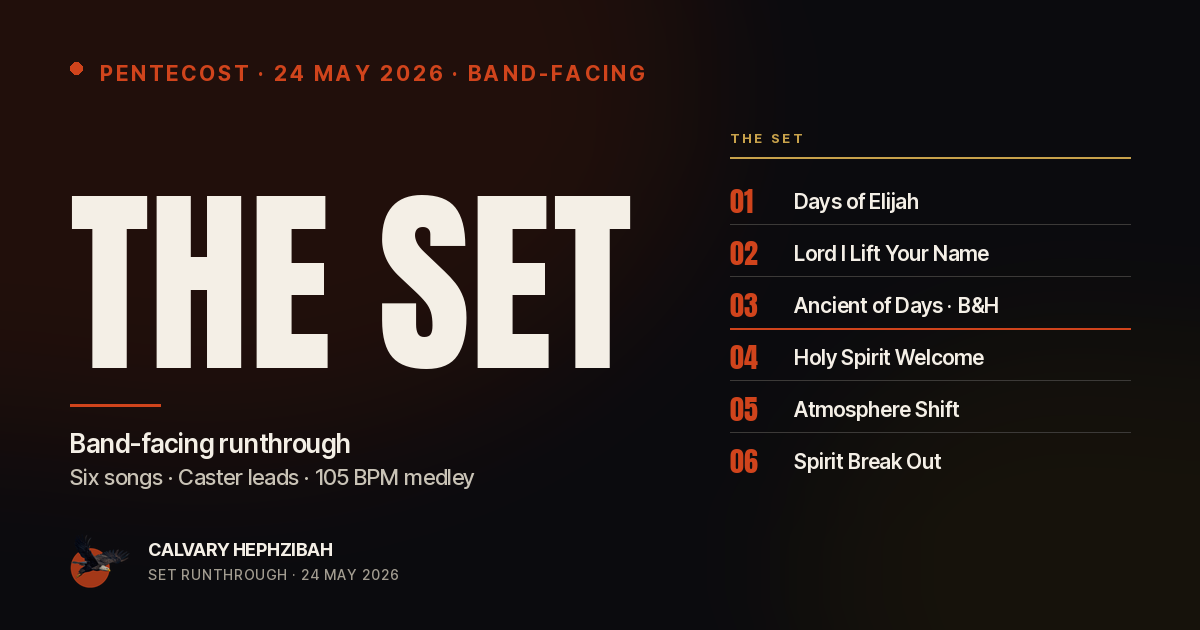
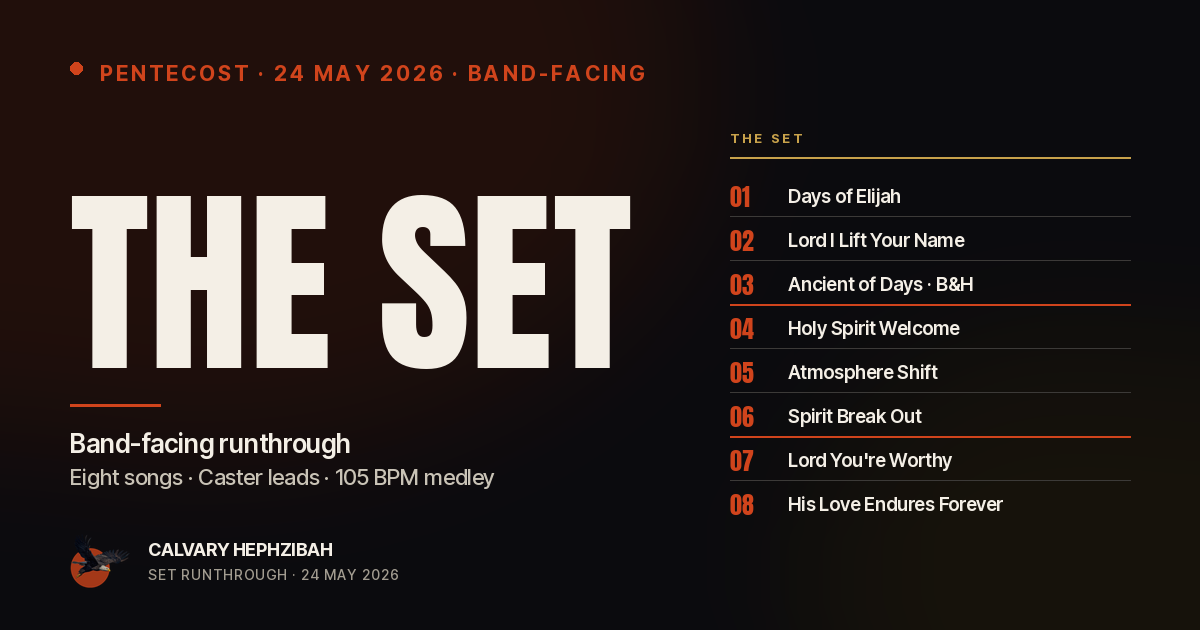
Set runthrough: add offering + end-of-service songs (7 & 8)
Two new song cards added at the foot of the song list. Both are
deliberately lighter than the worship set:
  - No reference track (yet)
  - No chord chart
  - No multi-stem player
  - Single lyrics block (one section)
  - Brief parts notes
  - Single Approach direction (not Shape + Principle stack)

  07 · OFFERING · Lord You're Worthy
     'This is the giving moment; the music holds the room, it doesn't
      lead it. Keep it simple, keep it short, keep it warm.'
     Tag: 'Single pass'

  08 · END OF SERVICE · His Love Endures Forever
     'One stanza, simple, reverent. End clean — let the room sit in it
      for a beat before the band stops. Caster calls the cut.'
     Tag: 'Benediction'

Updates to at-a-glance:
- glance-sub copy: 'Eight songs. Three praise locked at 105. Three
  worship that breathe. Two single-pass closers. Caster leads.'
- quick-order: 2 new dividers ('Offering · Single pass · light touch'
  and 'End of Service · Benediction · brief') + 2 new song rows

OG card regenerated for 8 songs:
- Tighter row height (52→44px)
- Two red structural dividers (after rows 3 and 6) — visually telegraphs
  the liturgical shape of the service at thumbnail scale
- Lede updated: 'Eight songs · Caster leads · 105 BPM medley'
- OG description meta updated to match

Changed region(s): [[0.5858, 0.3016, 0.925, 0.754], [0.0617, 0.7238, 0.4317, 0.7841], [0.5858, 0.7841, 0.8325, 0.8143]]

diff --git a/set-runthrough-24-may-2026/index.html b/set-runthrough-24-may-2026/index.html
@@ -8,7 +8,7 @@
 
   <meta property="og:type" content="website">
   <meta property="og:title" content="Set Runthrough · Pentecost · 24 May 2026">
-  <meta property="og:description" content="Per-musician notes for the band: drums, bass, keys, guitar, lead, BVs. Companion to the Worship Pack.">
+  <meta property="og:description" content="Per-musician notes for the band — drums, bass, keys, guitar, lead, BVs. Eight songs: three praise, three worship, two single-pass closers. Companion to the Worship Pack.">
   <meta property="og:url" content="https://calvaryhfgc.github.io/calvaryhephzibah/set-runthrough-24-may-2026/">
   <meta property="og:image" content="https://calvaryhfgc.github.io/calvaryhephzibah/set-runthrough-24-may-2026/og-card.png">
   <meta property="og:image:width" content="1200">
@@ -1625,7 +1625,7 @@
     <section class="glance" id="glance">
       <div class="glance-eyebrow">Pentecost Sunday · 24 May 2026</div>
       <h1>The <span class="accent">Set.</span></h1>
-      <p class="glance-sub">Six songs. Three praise locked at 105. Three worship that breathe. Caster leads. Companion to the <a href="../worship-pack-24-may-2026.html" style="color: var(--red-bright); text-decoration: none; border-bottom: 1px dotted var(--red);">Worship Pack</a>.</p>
+      <p class="glance-sub">Eight songs. Three praise locked at 105. Three worship that breathe. Two single-pass closers. Caster leads. Companion to the <a href="../worship-pack-24-may-2026.html" style="color: var(--red-bright); text-decoration: none; border-bottom: 1px dotted var(--red);">Worship Pack</a>.</p>
 
       <div class="lineup">
         <div class="lineup-row">
@@ -1679,6 +1679,18 @@
         <a class="qo-row" href="#song-4"><span class="qo-num">04</span><span class="qo-title">Holy Spirit, You Are Welcome Here</span><span class="qo-tag">Flex</span></a>
         <a class="qo-row" href="#song-5"><span class="qo-num">05</span><span class="qo-title">Atmosphere Shift</span><span class="qo-tag">Flex</span></a>
         <a class="qo-row" href="#song-6"><span class="qo-num">06</span><span class="qo-title">Spirit Break Out</span><span class="qo-tag">Flex</span></a>
+
+        <div class="qo-divider">
+          <span class="lbl">Offering</span>
+          <span class="meta">Single pass · light touch</span>
+        </div>
+        <a class="qo-row" href="#song-7"><span class="qo-num">07</span><span class="qo-title">Lord You're Worthy</span><span class="qo-tag">Single</span></a>
+
+        <div class="qo-divider">
+          <span class="lbl">End of Service</span>
+          <span class="meta">Benediction · brief</span>
+        </div>
+        <a class="qo-row" href="#song-8"><span class="qo-num">08</span><span class="qo-title">His Love Endures Forever</span><span class="qo-tag">Single</span></a>
       </div>
     </section>
 
@@ -2688,6 +2700,171 @@ KEY NOTES
               <div class="direction-label" style="color: var(--gold);">Principle</div>
               <p>It's Pentecost. Let it stretch and breathe. <strong>If the atmosphere is heavy, sit in it.</strong> Don't rush to the next thing. There is no next thing — this is the end of worship.</p>
             </div>
+          </div>
+        </div>
+      </div>
+
+      <!-- 07 · Lord You're Worthy -->
+      <div class="song collapsible" id="song-7" data-song-num="07">
+        <div class="song-toggle" role="button" tabindex="0" aria-expanded="false">
+          <div class="song-num">07</div>
+          <div class="song-titles">
+            <div class="song-position">Offering</div>
+            <div class="song-title">Lord You're Worthy</div>
+          </div>
+          <div class="song-tag-mini"><span class="tag-pill">Single pass</span></div>
+          <div class="chev">▾</div>
+        </div>
+        <div class="song-body">
+          <div class="song-body-inner">
+
+            <div class="lyrics collapsible" id="lyrics-7">
+              <div class="lyrics-head" role="button" tabindex="0" aria-expanded="false">
+                <div class="lyrics-title">Lyrics</div>
+                <div class="lyrics-meta tbc">Placeholder · to fill in</div>
+                <div class="lyrics-chev">▾</div>
+              </div>
+              <div class="lyrics-body">
+                <div class="lyrics-section">
+                  <div class="lyrics-section-label">Song body</div>
+                  <div class="lyrics-section-cue">Single pass · stay in the pocket · don't milk it</div>
+                  <div class="lyrics-lines placeholder">— lyrics to be added —</div>
+                </div>
+              </div>
+            </div>
+
+            <div class="parts" data-filter="all">
+              <div class="part-row flag" data-part="lead">
+                <div class="part-role">
+                  <div class="part-name">Lead</div>
+                  <div class="part-musician">Uncle Caster</div>
+                </div>
+                <div class="part-note">Set the pocket clean — this is the offering, not the main event. Let it breathe but don't milk it.</div>
+              </div>
+              <div class="part-row" data-part="keys">
+                <div class="part-role">
+                  <div class="part-name">Keys</div>
+                  <div class="part-musician">Eddie (confirming)</div>
+                </div>
+                <div class="part-note">Pad and chord work. Underneath, not on top. Same dynamic level throughout.</div>
+              </div>
+              <div class="part-row" data-part="guitar">
+                <div class="part-role">
+                  <div class="part-name">Guitar</div>
+                  <div class="part-musician">Morayo</div>
+                </div>
+                <div class="part-note">Rhythm support. Sustained chords work better than picking. No solos.</div>
+              </div>
+              <div class="part-row" data-part="drums">
+                <div class="part-role">
+                  <div class="part-name">Drums</div>
+                  <div class="part-musician">TBC</div>
+                </div>
+                <div class="part-note">Light groove — kick + hi-hat, soft snare. Don't drive.</div>
+              </div>
+              <div class="part-row" data-part="bass">
+                <div class="part-role">
+                  <div class="part-name">Bass</div>
+                  <div class="part-musician">BJ / TBC</div>
+                </div>
+                <div class="part-note">Walk the changes softly. Sustained root notes are fine.</div>
+              </div>
+              <div class="part-row" data-part="bvs">
+                <div class="part-role">
+                  <div class="part-name">BVs</div>
+                  <div class="part-musician">Esther + (TBC × 2)</div>
+                </div>
+                <div class="part-note">Blend underneath Caster. Don't lead — support.</div>
+              </div>
+            </div>
+
+            <div class="direction">
+              <div class="direction-label">Approach</div>
+              <p>Single pass through — verse, chorus, done. This is the giving moment; the music holds the room, it doesn't lead it. Keep it simple, keep it short, keep it warm. <strong>Don't over-arrange.</strong></p>
+            </div>
+
+          </div>
+        </div>
+      </div>
+      <!-- 08 · His Love Endures Forever -->
+      <div class="song collapsible" id="song-8" data-song-num="08">
+        <div class="song-toggle" role="button" tabindex="0" aria-expanded="false">
+          <div class="song-num">08</div>
+          <div class="song-titles">
+            <div class="song-position">End of Service</div>
+            <div class="song-title">His Love Endures Forever</div>
+          </div>
+          <div class="song-tag-mini"><span class="tag-pill gold">Benediction</span></div>
+          <div class="chev">▾</div>
+        </div>
+        <div class="song-body">
+          <div class="song-body-inner">
+
+            <div class="lyrics collapsible" id="lyrics-8">
+              <div class="lyrics-head" role="button" tabindex="0" aria-expanded="false">
+                <div class="lyrics-title">Lyrics</div>
+                <div class="lyrics-meta tbc">Placeholder · to fill in</div>
+                <div class="lyrics-chev">▾</div>
+              </div>
+              <div class="lyrics-body">
+                <div class="lyrics-section">
+                  <div class="lyrics-section-label">Song body</div>
+                  <div class="lyrics-section-cue">One stanza · let the room sit · Caster calls the cut</div>
+                  <div class="lyrics-lines placeholder">— lyrics to be added —</div>
+                </div>
+              </div>
+            </div>
+
+            <div class="parts" data-filter="all">
+              <div class="part-row flag" data-part="lead">
+                <div class="part-role">
+                  <div class="part-name">Lead</div>
+                  <div class="part-musician">Uncle Caster</div>
+                </div>
+                <div class="part-note">One stanza or two passes through. Land cleanly — Caster calls the cut.</div>
+              </div>
+              <div class="part-row" data-part="keys">
+                <div class="part-role">
+                  <div class="part-name">Keys</div>
+                  <div class="part-musician">Eddie (confirming)</div>
+                </div>
+                <div class="part-note">Sustained chords. Hold the final note as the room sits.</div>
+              </div>
+              <div class="part-row" data-part="guitar">
+                <div class="part-role">
+                  <div class="part-name">Guitar</div>
+                  <div class="part-musician">Morayo</div>
+                </div>
+                <div class="part-note">Open chords, full sustain. Match the keys on the ending.</div>
+              </div>
+              <div class="part-row" data-part="drums">
+                <div class="part-role">
+                  <div class="part-name">Drums</div>
+                  <div class="part-musician">TBC</div>
+                </div>
+                <div class="part-note">Light touch or out entirely. Don't groove the benediction.</div>
+              </div>
+              <div class="part-row" data-part="bass">
+                <div class="part-role">
+                  <div class="part-name">Bass</div>
+                  <div class="part-musician">BJ / TBC</div>
+                </div>
+                <div class="part-note">Sustained root only. Land with Caster.</div>
+              </div>
+              <div class="part-row" data-part="bvs">
+                <div class="part-role">
+                  <div class="part-name">BVs</div>
+                  <div class="part-musician">Esther + (TBC × 2)</div>
+                </div>
+                <div class="part-note">Full voice with Caster — this is the dismissal, send people out singing.</div>
+              </div>
+            </div>
+
+            <div class="direction">
+              <div class="direction-label">Approach</div>
+              <p>One stanza, simple, reverent. After the benediction. End clean — let the room sit in it for a beat before the band stops. <strong>Caster calls the cut.</strong></p>
+            </div>
+
           </div>
         </div>
       </div>